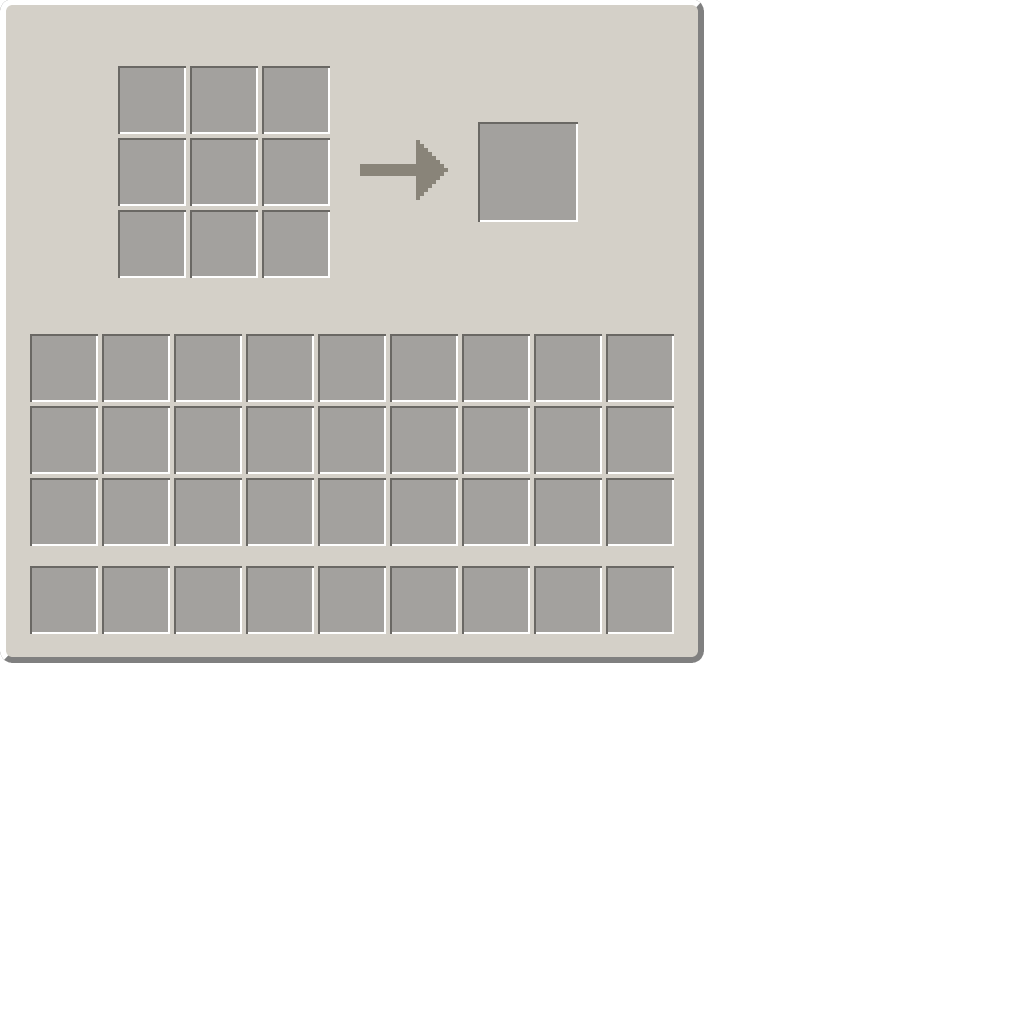
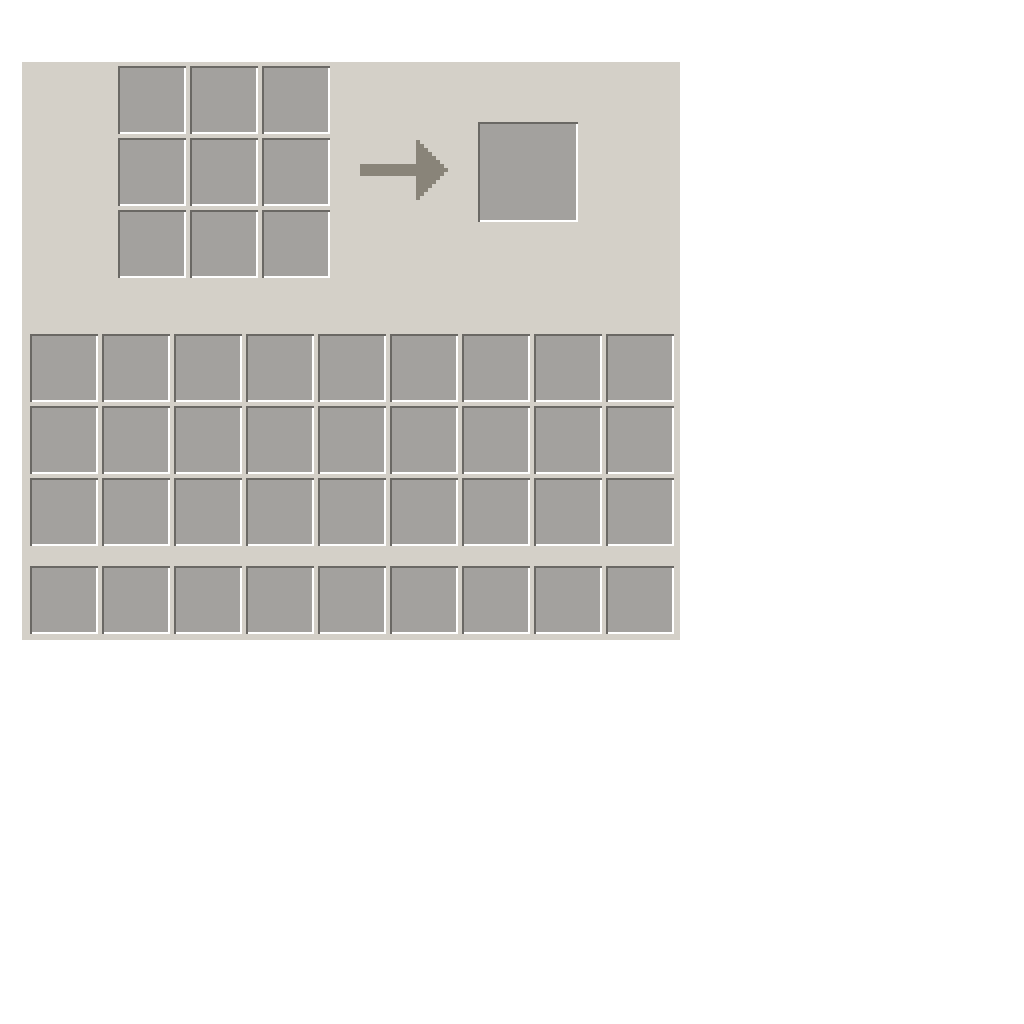
ui

Changed region(s): [[0.0, 0.0, 0.6875, 0.6562]]

diff --git a/www/src/window/ingamemain.ts b/www/src/window/ingamemain.ts
@@ -1,6 +1,10 @@
-import {Window} from "../../tools/gui/wm.js";
+import { Button, Label, ToggleButton, Window } from "../../tools/gui/wm.js";
+import { INVENTORY_SLOT_SIZE } from "../constant.js";
+import { Vector } from "../helpers.js";
+import { Lang } from "../lang.js";
 import { CreativeInventoryWindow } from "./creative_inventory.js";
 import { InventoryWindow } from "./inventory.js";
+import { StatsWindow } from "./stats.js";
 
 export class InGameMain extends Window {
     [key: string]: any;
@@ -8,58 +12,117 @@ export class InGameMain extends Window {
     constructor(player, inventory, recipes) {
 
         super(10, 10, 1700/2, 1200/2, 'frmInGameMain', null, null);
+        this.x *= this.zoom 
+        this.y *= this.zoom
+        this.w *= this.zoom
+        this.h *= this.zoom
 
-        this.w *= this.zoom;
-        this.h *= this.zoom;
+        this.setBackground('./media/gui/form-quest.png')
+
+        // Ширина / высота слота
+        this.cell_size = INVENTORY_SLOT_SIZE * this.zoom
 
         this.player = player;
         this.inventory = inventory;
         this.recipes = recipes;
 
-        const fromInv = new InventoryWindow(inventory, recipes);
+        const fromInv = new InventoryWindow(inventory, recipes)
         fromInv.autosize = false;
-        fromInv.visible = true;
+        // fromInv.visible = true;
         fromInv.onShow = () => {};
 
-        const fromCreativeInv = new CreativeInventoryWindow(inventory);
+        const fromCreativeInv = new CreativeInventoryWindow(inventory)
         fromCreativeInv.autosize = false;
         fromCreativeInv.onShow = () => {};
 
-        //
-        this.appendLayout({
-            questViewLayout: {
-                type: 'VerticalLayout',
-                x: 0,
-                y: 0,
-                width: this.w,
-                childs: {
-                    btnInventory: {
-                        type: 'Button',
-                        title: 'Inventory',
-                        height: 40 * this.zoom,
-                        autosize: true,
-                        onMouseDown: () => {
-                            fromInv.visible = true;
-                            fromCreativeInv.visible = false;
-                            this.parent.refresh();
-                        }
-                    },
-                    btnCreativeInventory: {
-                        type: 'Button',
-                        title: 'Creative inventory',
-                        height: 40 * this.zoom,
-                        autosize: true,
-                        onMouseDown: () => {
-                            fromInv.visible = false;
-                            fromCreativeInv.visible = true;
-                            this.parent.refresh();
-                        }
-                    },
-                    fromInv,
-                    fromCreativeInv
+        const frmStats = new StatsWindow(player)
+        fromCreativeInv.autosize = false;
+        frmStats.style.background.image = null
+        fromCreativeInv.onShow = () => {};
+
+        // Add close button
+        this.loadCloseButtonImage((image) => {
+            // Close button
+            const btnClose = new Button(this.w - this.cell_size, 12 * this.zoom, 20 * this.zoom, 20 * this.zoom, 'btnClose')
+            btnClose.style.background.image = image;
+            btnClose.style.background.image_size_mode = 'stretch';
+            btnClose.onMouseDown = this.hide.bind(this)
+            this.add(btnClose)
+        })
+
+        // const windows = []
+        const tabs = [
+            {title: 'Inventory', form: fromInv, button: null, fix_pos: new Vector(2, 0, 0)},
+            {title: 'Creative', form: fromCreativeInv, button: null, fix_pos: new Vector(0, 0, 0)},
+            {title: 'Stats', form: frmStats, button: null, fix_pos: new Vector(0, 0, 0)}
+        ]
+
+        for(let i = 0; i < tabs.length; i++) {
+            const tab = tabs[i]
+            const btn_margin = 5 * this.zoom
+            const btn_width = 120 * this.zoom
+            const btn_height = 30 * this.zoom
+            tab.button = new Label(17 * this.zoom + i * (btn_width + btn_margin), 12 * this.zoom, btn_width, btn_height, `btn${i}`, tab.title, tab.title)
+            tab.button.style.textAlign.horizontal = 'center'
+            tab.button.style.textAlign.vertical = 'middle'
+            tab.form.x = tab.fix_pos.x * this.zoom
+            tab.form.y += (tab.fix_pos.y * this.zoom +btn_height)
+            const btnClose = tab.form.list.get('btnClose')
+            if(btnClose) {
+                btnClose.visible = false
+            }
+            // tab.form.style.background.image = null
+            tab.button.form = tab.form
+            this.add(tab.form)
+            // windows.push(item.form)
+            tab.button.onMouseDown = function(e) {
+                for(let tab of tabs) {
+                    const active = this.form == tab.form
+                    if(active) console.log(tab.form.id)
+                    tab.form.visible = active
+                    tab.button.style.background.color = active ? '#7882b9' : '#ffffff55'
                 }
             }
-        });
+            this.add(tab.button)
+        }
+
+        tabs[0].button.onMouseDown(null)
+
+        //
+        // this.appendLayout({
+        //     questViewLayout: {
+        //         type: 'VerticalLayout',
+        //         x: 0,
+        //         y: 0,
+        //         width: this.w,
+        //         childs: {
+        //             btnInventory: {
+        //                 type: 'Button',
+        //                 title: 'Inventory',
+        //                 height: 40 * this.zoom,
+        //                 autosize: true,
+        //                 onMouseDown: () => {
+        //                     fromInv.visible = true;
+        //                     fromCreativeInv.visible = false;
+        //                     this.parent.refresh();
+        //                 }
+        //             },
+        //             btnCreativeInventory: {
+        //                 type: 'Button',
+        //                 title: 'Creative inventory',
+        //                 height: 40 * this.zoom,
+        //                 autosize: true,
+        //                 onMouseDown: () => {
+        //                     fromInv.visible = false;
+        //                     fromCreativeInv.visible = true;
+        //                     this.parent.refresh();
+        //                 }
+        //             },
+        //             fromInv,
+        //             fromCreativeInv
+        //         }
+        //     }
+        // });
 
     }
 

diff --git a/www/src/window/stats.ts b/www/src/window/stats.ts
@@ -30,19 +30,20 @@ export class StatsWindow extends BlankWindow {
         const label_distance = new Label(17 * this.zoom, 140 * this.zoom, 300 * this.zoom, 22 * this.zoom, 'label_distance', null, '0');
         this.add(label_distance)
 
+        const btnClose = new Button(this.w - this.cell_size, 12 * this.zoom, 20 * this.zoom, 20 * this.zoom, 'btnClose', '');
+        this.add(btnClose)
+
         // Add close button
         this.loadCloseButtonImage((image) => {
             // Add buttons
             const that = this
             // Close button
-            const btnClose = new Button(that.w - this.cell_size, 12 * this.zoom, 20 * this.zoom, 20 * this.zoom, 'btnClose', '');
             btnClose.style.font.family = 'Arial'
             btnClose.style.background.image = image
             btnClose.style.background.image_size_mode = 'stretch';
             btnClose.onMouseDown = function(e) {
                 that.hide()
             }
-            that.add(btnClose)
         })
 
         player.world.server.AddCmdListener([ServerClient.CMD_STATS], (cmd) => {

diff --git a/www/src/window/inventory.ts b/www/src/window/inventory.ts
@@ -70,19 +70,20 @@ export class InventoryWindow extends BaseCraftWindow {
         const lblTitle = new Label(194 * this.zoom, 12 * this.zoom, 80 * this.zoom, 30 * this.zoom, 'lblTitle', null, Lang.create)
         this.add(lblTitle)
 
+        const btnClose = new Button(this.w - 34 * this.zoom, 9 * this.zoom, 20 * this.zoom, 20 * this.zoom, 'btnClose', '')
+        this.add(btnClose)
+
         // Add close button
         this.loadCloseButtonImage((image) => {
             // Add buttons
             const that = this
             // Close button
-            const btnClose = new Button(that.w - 34 * this.zoom, 9 * this.zoom, 20 * this.zoom, 20 * this.zoom, 'btnClose', '')
             btnClose.style.font.family = 'Arial'
             btnClose.style.background.image = image
             // btnClose.style.background.image_size_mode = 'stretch';
             btnClose.onDrop = btnClose.onMouseDown = function(e) {
                 that.hide()
             }
-            that.add(btnClose)
         })
 
     }

diff --git a/www/src/window/creative_inventory.ts b/www/src/window/creative_inventory.ts
@@ -218,20 +218,21 @@ export class CreativeInventoryWindow extends BlankWindow {
 
         // Создание слотов для блоков коллекций
         this.createCollectionSlots()
+        
+        const btnClose = new Button(this.w - this.cell_size, 9 * this.zoom, 20 * this.zoom, 20 * this.zoom, 'btnClose', '')
+        this.add(btnClose)
 
         // Add close button
         this.loadCloseButtonImage((image) => {
             // Add buttons
             const that = this
             // Close button
-            const btnClose = new Button(that.w - this.cell_size, 9 * this.zoom, 20 * this.zoom, 20 * this.zoom, 'btnClose', '');
             btnClose.style.font.family = 'Arial'
             btnClose.style.background.image = image
             btnClose.style.background.image_size_mode = 'stretch'
             btnClose.onDrop = btnClose.onMouseDown = function(e) {
                 that.hide()
             }
-            that.add(btnClose)
         });
 
         // Search input

diff --git a/www/src/player_inventory.ts b/www/src/player_inventory.ts
@@ -67,11 +67,14 @@ export class PlayerInventory extends Inventory {
 
     // Open window
     open() {
-        if(this.player.game_mode.isCreative()) {
-            this.hud.wm.getWindow('frmCreativeInventory').toggleVisibility();
-        } else {
-            this.hud.wm.getWindow('frmInventory').toggleVisibility();
-        }
+
+        this.hud.wm.getWindow('frmInGameMain').toggleVisibility();
+
+        // if(this.player.game_mode.isCreative()) {
+        //     this.hud.wm.getWindow('frmCreativeInventory').toggleVisibility();
+        // } else {
+        //     this.hud.wm.getWindow('frmInventory').toggleVisibility();
+        // }
     }
 
     // Refresh

diff --git a/www/src/player_window_manager.ts b/www/src/player_window_manager.ts
@@ -25,7 +25,7 @@ export class PlayerWindowManager {
         this.addWindow(new ScreenshotWindow(player));
         this.addWindow(new BookWindow(player));
         this.addWindow(new BarrelWindow(inventory));
-        // this.addWindow(new InGameMain(player, inventory, inventory.recipes));
+        this.addWindow(new InGameMain(player, inventory, inventory.recipes));
         this.addWindow(new ModeWindow(player));
         this.addWindow(new BrewingWindow(inventory));
     }

diff --git a/www/tools/gui/styles.js b/www/tools/gui/styles.js
@@ -335,7 +335,7 @@ export class BorderStyle {
             }
         }
 
-        const border_width = .5 * this.#window.zoom
+        const border_width = 1 * this.#window.zoom
 
         color1 = parseColorAndAlpha(color1)
         color2 = parseColorAndAlpha(color2)
